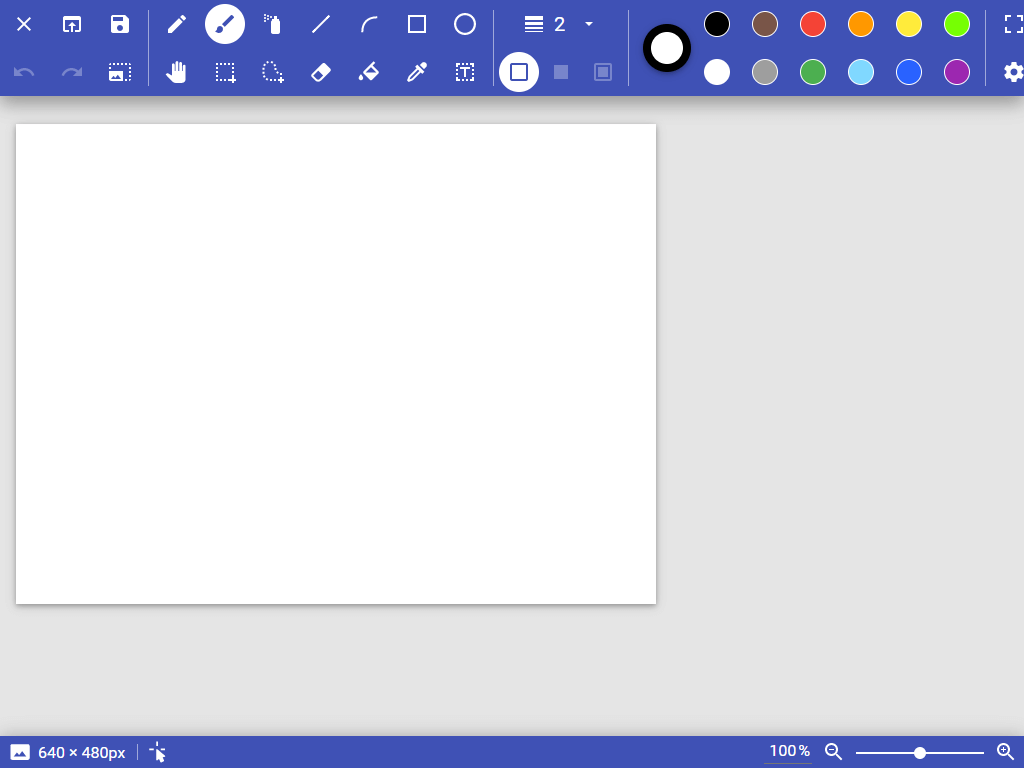
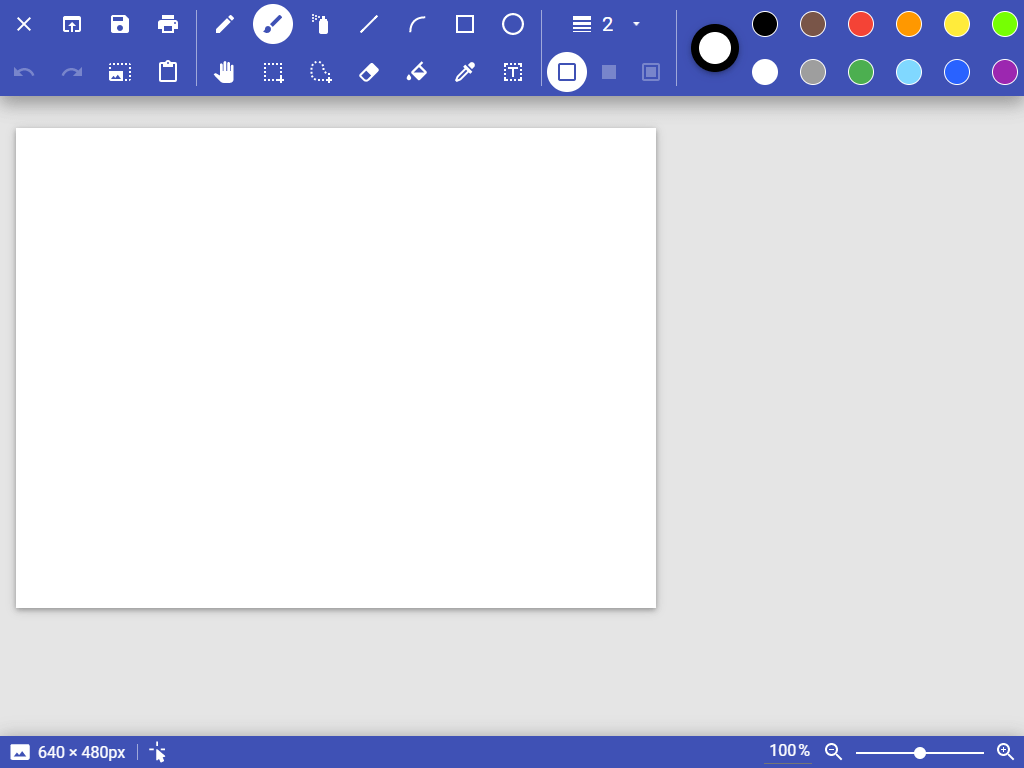
Update screenshots
Both promo screenshots and ones shown in-app.

diff --git a/app/service_worker.js b/app/service_worker.js
@@ -1,6 +1,6 @@
 'use strict';
 
-// 2021-07-06, v1
+// 2021-11-26, v1
 var CACHE_START_TEXT = 'CACHE MANIFEST',
 	CACHE_END_TEXT = 'NETWORK';
 
